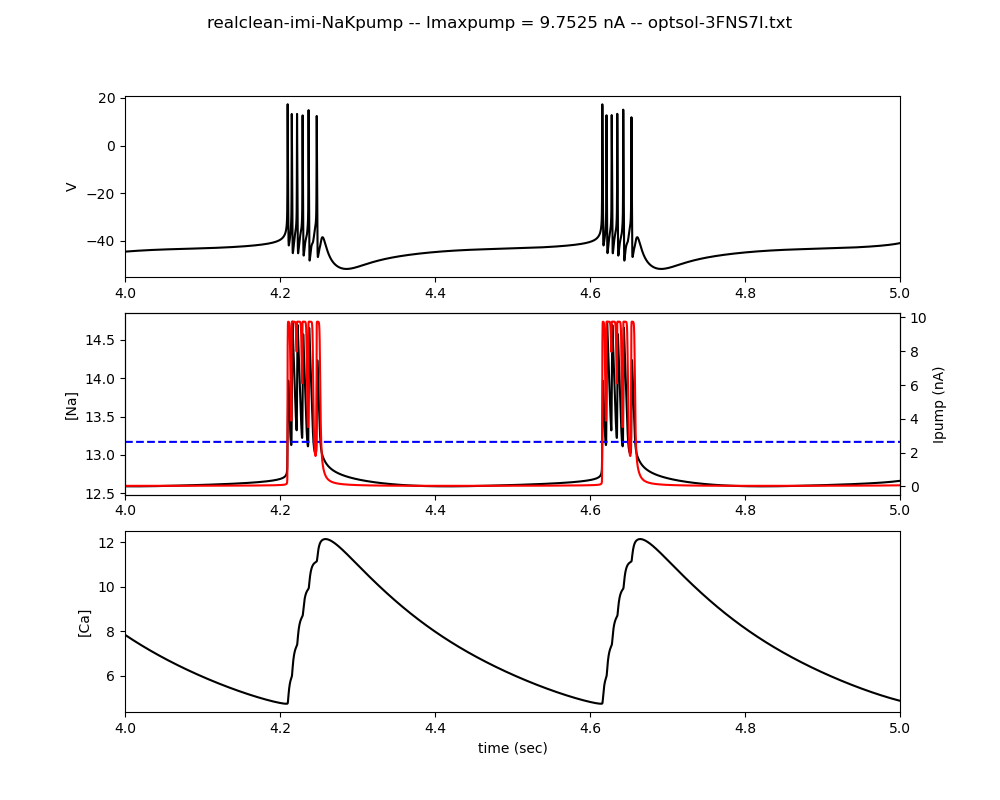
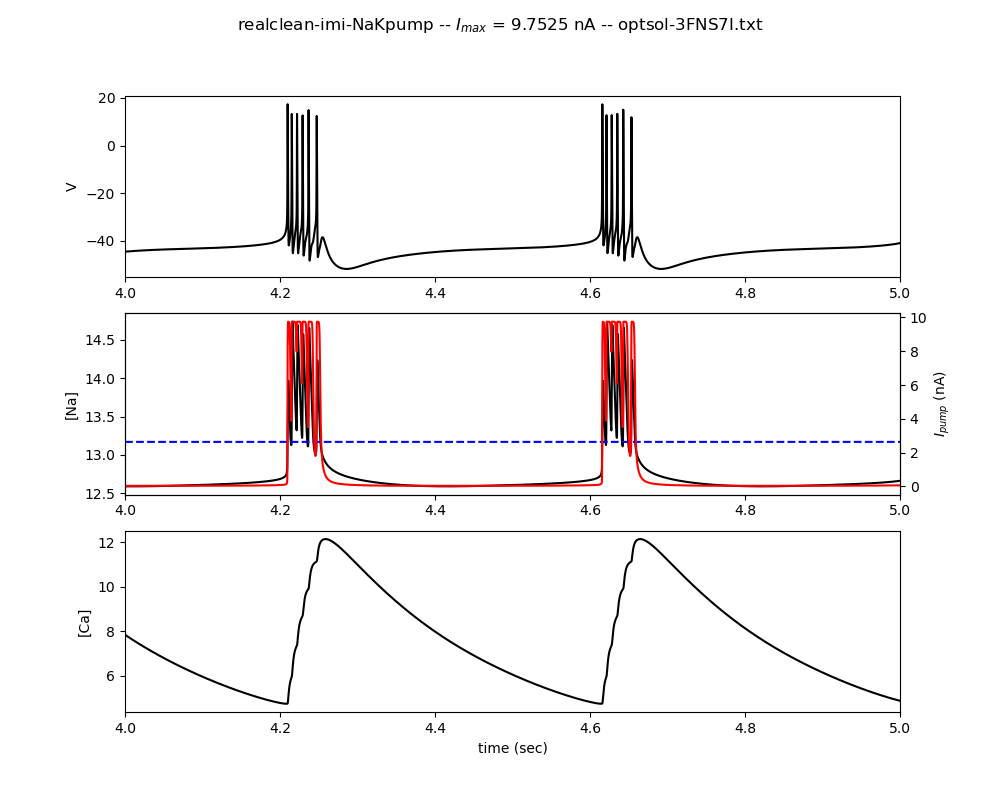
Refine plot labels

Changed region(s): [[0.217, 0.0, 0.775, 0.0625], [0.93, 0.4688, 0.961, 0.5625]]

diff --git a/plotModifiedSolution.py b/plotModifiedSolution.py
@@ -27,7 +27,7 @@ def getIpump(p, sol):
 # alphaFvol = p[43]
 
 # hashname=id_generator()
-hashname='ZTOLB4'
+hashname='Y2IC9D'
 
 pfname='optsol-'+hashname+'.txt'
 p = genfromtxt(pfname)
